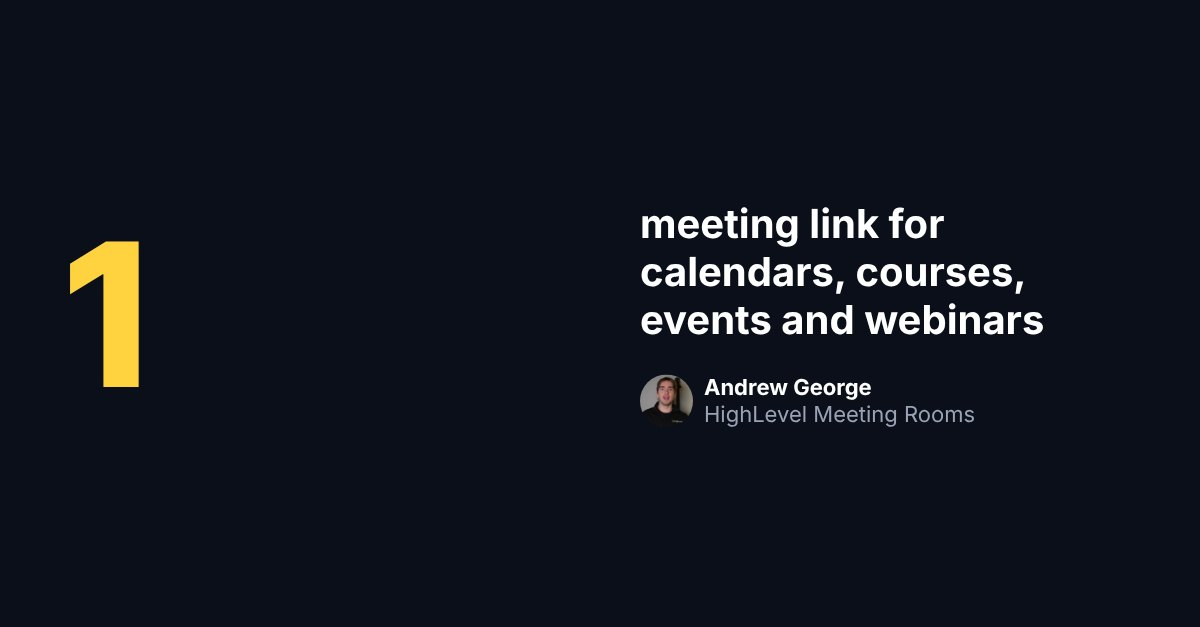
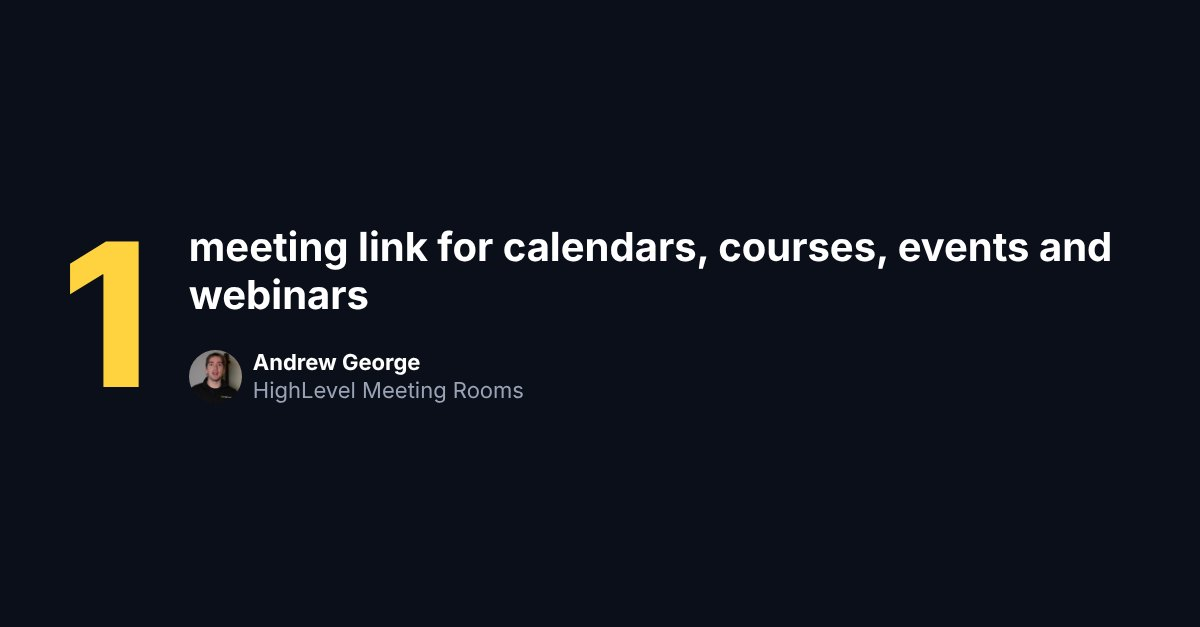
Catalog: webinar, SaaSSuite menu links, podcast roundups, layout fixes
Claude-Session: https://claude.ai/code/session_01RoHYRPTcfUwTmZcKn69drG

diff --git a/tools/catalog_cards.py b/tools/catalog_cards.py
@@ -76,9 +76,9 @@ def slide_html(s, W, H):
         n = s['num']; ns = (300 if len(n) <= 3 else 230 if len(n) <= 5 else 170) if not land else (200 if len(n) <= 3 else 150 if len(n) <= 5 else 115)
         if land:
             return (f"<div class='bg' style='background:{NAVY}'></div>"
-                    f"<div style='position:absolute;left:64px;top:50%;transform:translateY(-50%);width:560px;font:800 {ns}px/0.95 Tight;color:{YEL};letter-spacing:-.03em'>{esc(n)}</div>"
-                    f"<div style='position:absolute;left:640px;right:60px;top:50%;transform:translateY(-50%);color:#fff'>"
-                    f"<div style='font:700 40px/1.2 Inter'>{esc(s['label'])}</div><div style='margin-top:30px'>{byline(s, 22, '#fff', '#9AA3B5')}</div></div>")
+                    f"<div style='position:absolute;left:64px;right:60px;top:50%;transform:translateY(-50%);display:flex;align-items:center;gap:48px;color:#fff'>"
+                    f"<div style='flex:none;max-width:560px;font:800 {ns}px/0.95 Tight;color:{YEL};letter-spacing:-.03em'>{esc(n)}</div>"
+                    f"<div style='min-width:0'><div style='font:700 40px/1.2 Inter'>{esc(s['label'])}</div><div style='margin-top:30px'>{byline(s, 22, '#fff', '#9AA3B5')}</div></div></div>")
         return (f"<div class='bg' style='background:{NAVY}'></div><div style='position:absolute;left:90px;right:90px;top:50%;transform:translateY(-50%);color:#fff'>"
                 f"<div style='font:800 {ns}px/0.95 Tight;color:{YEL};letter-spacing:-.03em'>{esc(n)}</div>"
                 f"<div style='font:700 56px/1.18 Inter;margin-top:40px'>{esc(s['label'])}</div>"

diff --git a/tools/catalog_features.py b/tools/catalog_features.py
@@ -28,6 +28,8 @@ def faces_of(frames):
         if len(fs):
             x, y, w, h = max(fs, key=lambda r: r[2]); sharp = cv2.Laplacian(g[y:y + h, x:x + w], cv2.CV_64F).var()
             out.append((f, dict(x=x + w / 2, y=y + h / 2, face=w), sharp))
+    if out:  # keep full-camera frames only: faces near the biggest size (drops faces inside screen shares, ads, thumbnails)
+        big = max(p['face'] for _, p, _ in out); out = [r for r in out if r[1]['face'] >= 0.7 * big]
     out.sort(key=lambda r: -r[2])  # sharpest face first (cover + cards); blurred mid-gesture frames go last
     return [(f, p) for f, p, _ in out]
 

diff --git a/tools/catalog_assemble.py b/tools/catalog_assemble.py
@@ -67,6 +67,7 @@ def main():
             cap = f"{it['thread'][0]}\n\n{it['thread'][-1]}\n\n{TAGS['pod']}"
             add_car('convo', d / 'convo', cid, it['hook'], src, cap); add_car('thread', d / 'thread', cid, it['hook'], src, cap)
             add_singles(d / 'single', cid, it['hook'], src); add_text(cid, it, src)
+    for it in load('roundups'): add_text(it['id'], it, it['source'])
     # feature releases
     for name in ('feature1', 'feature2', 'feature3', 'feature4'):
         for it in load(name):

diff --git a/outputs/2026-11-07-catalog/README.md b/outputs/2026-11-07-catalog/README.md
@@ -37,7 +37,7 @@ Never used: V3 "kinetic", AI faces, guest words under Andrew's name.
 - All JPGs ≤ 400 KB.
 
 ## Counts
-**94** carousels · **294** single images · **355** texts · **30** story sequences
+**98** carousels · **306** single images · **380** texts · **30** story sequences
 
 ## Every output
 | id | type | format | length | hook | source | file |
@@ -370,6 +370,22 @@ Never used: V3 "kinetic", AI faces, guest words under Andrew's name.
 | ssclienthu-stat-1200x627 | single image | stat card | 1200x627 | Your clients should onboard themselves | SSClientHu.mp4 (Oct 2026 V+S) | `singles/ssclienthu-stat-1200x627.jpg` |
 | ssclienthu-tweet-1080x1350 | single image | tweet card | 1080x1350 | Your clients should onboard themselves | SSClientHu.mp4 (Oct 2026 V+S) | `singles/ssclienthu-tweet-1080x1350.jpg` |
 | ssclienthu-tweet-1200x627 | single image | tweet card | 1200x627 | Your clients should onboard themselves | SSClientHu.mp4 (Oct 2026 V+S) | `singles/ssclienthu-tweet-1200x627.jpg` |
+| ssmenulink-convo | carousel | Hormozi podcast stack (pod1-05 style) | 6 slides | Only show clients what they pay for | SSMenuLink.mp4 (Oct 2026 V+S) | `carousels/ssmenulink-convo/` |
+| ssmenulink-thread | carousel | face cover + tweet thread | 7 slides | Only show clients what they pay for | SSMenuLink.mp4 (Oct 2026 V+S) | `carousels/ssmenulink-thread/` |
+| ssmenulink-quote-1080x1350 | single image | quote card | 1080x1350 | Only show clients what they pay for | SSMenuLink.mp4 (Oct 2026 V+S) | `singles/ssmenulink-quote-1080x1350.jpg` |
+| ssmenulink-quote-1200x627 | single image | quote card | 1200x627 | Only show clients what they pay for | SSMenuLink.mp4 (Oct 2026 V+S) | `singles/ssmenulink-quote-1200x627.jpg` |
+| ssmenulink-stat-1080x1350 | single image | stat card | 1080x1350 | Only show clients what they pay for | SSMenuLink.mp4 (Oct 2026 V+S) | `singles/ssmenulink-stat-1080x1350.jpg` |
+| ssmenulink-stat-1200x627 | single image | stat card | 1200x627 | Only show clients what they pay for | SSMenuLink.mp4 (Oct 2026 V+S) | `singles/ssmenulink-stat-1200x627.jpg` |
+| ssmenulink-tweet-1080x1350 | single image | tweet card | 1080x1350 | Only show clients what they pay for | SSMenuLink.mp4 (Oct 2026 V+S) | `singles/ssmenulink-tweet-1080x1350.jpg` |
+| ssmenulink-tweet-1200x627 | single image | tweet card | 1200x627 | Only show clients what they pay for | SSMenuLink.mp4 (Oct 2026 V+S) | `singles/ssmenulink-tweet-1200x627.jpg` |
+| webinar-convo | carousel | Hormozi podcast stack (pod1-05 style) | 6 slides | I sell almost everything with webinars | WebinarVideo.mp4 (Oct 2026 V+S) | `carousels/webinar-convo/` |
+| webinar-thread | carousel | face cover + tweet thread | 7 slides | I sell almost everything with webinars | WebinarVideo.mp4 (Oct 2026 V+S) | `carousels/webinar-thread/` |
+| webinar-quote-1080x1350 | single image | quote card | 1080x1350 | I sell almost everything with webinars | WebinarVideo.mp4 (Oct 2026 V+S) | `singles/webinar-quote-1080x1350.jpg` |
+| webinar-quote-1200x627 | single image | quote card | 1200x627 | I sell almost everything with webinars | WebinarVideo.mp4 (Oct 2026 V+S) | `singles/webinar-quote-1200x627.jpg` |
+| webinar-stat-1080x1350 | single image | stat card | 1080x1350 | I sell almost everything with webinars | WebinarVideo.mp4 (Oct 2026 V+S) | `singles/webinar-stat-1080x1350.jpg` |
+| webinar-stat-1200x627 | single image | stat card | 1200x627 | I sell almost everything with webinars | WebinarVideo.mp4 (Oct 2026 V+S) | `singles/webinar-stat-1200x627.jpg` |
+| webinar-tweet-1080x1350 | single image | tweet card | 1080x1350 | I sell almost everything with webinars | WebinarVideo.mp4 (Oct 2026 V+S) | `singles/webinar-tweet-1080x1350.jpg` |
+| webinar-tweet-1200x627 | single image | tweet card | 1200x627 | I sell almost everything with webinars | WebinarVideo.mp4 (Oct 2026 V+S) | `singles/webinar-tweet-1200x627.jpg` |
 | nCBnetgFc1s-story | story sequence | 4 frames: hook, why, poll, link sticker | 4 frames | 300+ new HighLevel features dropped at LevelUp | YouTube: GoHighLevel LevelUp 2026: Everything You Need to Know (https://www.youtube.com/watch?v=nCBnetgFc1s) | `stories/nCBnetgFc1s/` |
 | nCBnetgFc1s-post-1080x1350 | single image | post card | 1080x1350 | 300+ new HighLevel features. Here are the ones that matter. | YouTube: GoHighLevel LevelUp 2026: Everything You Need to Know (https://www.youtube.com/watch?v=nCBnetgFc1s) | `singles/nCBnetgFc1s-post-1080x1350.jpg` |
 | nCBnetgFc1s-post-1200x627 | single image | post card | 1200x627 | 300+ new HighLevel features. Here are the ones that matter. | YouTube: GoHighLevel LevelUp 2026: Everything You Need to Know (https://www.youtube.com/watch?v=nCBnetgFc1s) | `singles/nCBnetgFc1s-post-1200x627.jpg` |
@@ -461,4 +477,4 @@ Never used: V3 "kinetic", AI faces, guest words under Andrew's name.
 | 6v9-gl2ap9o-post-1080x1350 | single image | post card | 1080x1350 | Ask AI can do anything in HighLevel. Let me prove it. | YouTube: Ask AI Can Do Anything in GoHighLevel — Let Me Prove It (https://www.youtube.com/watch?v=6v9-gl2ap9o) | `singles/6v9-gl2ap9o-post-1080x1350.jpg` |
 | 6v9-gl2ap9o-post-1200x627 | single image | post card | 1200x627 | Ask AI can do anything in HighLevel. Let me prove it. | YouTube: Ask AI Can Do Anything in GoHighLevel — Let Me Prove It (https://www.youtube.com/watch?v=6v9-gl2ap9o) | `singles/6v9-gl2ap9o-post-1200x627.jpg` |
 
-Text posts (355) are listed in `manifest.csv` and live in `text/`.
+Text posts (380) are listed in `manifest.csv` and live in `text/`.

diff --git a/outputs/2026-11-07-catalog/text/linkedin.md b/outputs/2026-11-07-catalog/text/linkedin.md
@@ -1,4 +1,4 @@
-# LinkedIn posts · Nov 7 catalog · 77 drafts
+# LinkedIn posts · Nov 7 catalog · 82 drafts
 Drafts for Andrew's review. Nothing is posted.
 
 ### pod1-01
@@ -493,6 +493,55 @@ Failure isn't what stops people. Quitting after failure is. And quitting gets ea
 
 Therefore practice discomfort on purpose. It makes the next failure survivable.
 
+### pod1-roundup
+_Source: Pod1 (Andy Griffith, SoloLink), Oct 2026 · whole episode_
+
+I sat down with Andy Griffith, a SaaS-preneur award winner who runs 120 HighLevel SaaS customers at SoloLink.
+
+6 things I wrote down:
+
+1. If you're stuck at 5 to 10 accounts, keep going. Everyone with 120 started there.
+2. Your first customers are your warm market. They forgive mistakes while you learn.
+3. Charge less at first. "Eat a little bit of dirt." You're getting paid to learn.
+4. Sell the offer before you know every step of the backend. You only need to see 200 feet ahead.
+5. You can do anything, not everything. Solo breaks somewhere past 50 clients.
+6. Bet on yourself. Don't fail the bet you made.
+
+The pattern under all six: most people don't fail at SaaS. They stop early. Therefore the real skill is staying in the game long enough for the math to work.
+
+Which one do you need to hear this week?
+
+### pod2-roundup
+_Source: Pod2 (Blake Coker, Task Engine), Oct 2026 · whole episode_
+
+Blake Coker built an agency for midsize banks. Not roofers, not dentists. Banks.
+
+What stood out from our conversation:
+
+1. His niche came from his resume. He'd built software for banks for years.
+2. His first real bank client came from one referral: "go talk to our marketing manager."
+3. He walked into that first meeting with a notepad and kept his mouth shut.
+4. He didn't pitch the whole marketing job. He filled the gap their team couldn't.
+5. Forget speed to lead. Speed to support is what keeps clients.
+6. Offer one thing. Then find your groove.
+
+None of that is a growth hack. But all of it compounds. Therefore if you're starting an agency, start with who already trusts you and what you already know.
+
+### pod3-roundup
+_Source: Pod3 (HighLevel 2026 interns), Oct 2026 · whole episode_
+
+I talked with three of HighLevel's 2026 interns: Ohaji (21, Ohio State, AI consulting), McKinley (started posting on YouTube at 10, agency since high school) and Ty (25, Dallas, left horse training to start an AI agency).
+
+What they said about starting young:
+
+• "I've grown more in two months than in four years of college."
+• Posting cost one of them real friendships. Strangers ended up being the biggest supporters.
+• "Show me your three friends and I'll show you where you're going in life."
+• "It's not easy, but it is simple."
+• "If you're going to fall, fall forward."
+
+The theme: none of them waited to feel ready. They started, felt the discomfort, and kept going. Therefore the advice for anyone younger who's watching: start now, and find a room of people doing the same thing.
+
 ### n8n
 _Source: N8N V+S.mp4 (Nov 2026 V+S)_
 
@@ -608,6 +657,36 @@ A new client logs in, sees 40 tabs and doesn't know where to start. They don't a
 That's why we built the SaaSSuite client hub into the HighLevel account itself. The first thing a client sees is a welcome, a welcome video and an onboarding checklist where every step links to a short how-to video. Custom buttons sit up top: book a call, upgrade, fill out the onboarding form. Education and support tabs are one click away.
 
 Therefore onboarding works the same for client 1 and client 500, and nobody needs a Zoom call to get started.
+
+### ssmenulink
+_Source: SSMenuLink.mp4 (Oct 2026 V+S)_
+
+A pricing problem I see in a lot of HighLevel SaaS businesses: every plan sees the exact same software.
+
+The $97 client and the $497 client log in to the same menu. Therefore the upgrade doesn't feel like getting anything.
+
+SaaSSuite menu link removal lets you pick which HighLevel features to hide, save that as a preset, and tie it to a plan. It can run automatically as clients sign up.
+
+Small plan, small menu. Upgrade, and the new features show up.
+
+That also makes onboarding easier, because a new client only sees what they bought.
+
+### webinar
+_Source: WebinarVideo.mp4 (Oct 2026 V+S)_
+
+I sell almost everything I offer through webinars.
+
+The reason is simple: a 30-second ad can't explain a SaaS offer. But in a webinar someone sees the problem, the product and the offer, and gets their questions answered.
+
+My setup is boring on purpose:
+
+• Ads with a real face (they usually beat text-only creative)
+• A landing page with a call-out, a headline, the objections, and "save my seat"
+• An automated session they can join in 3 minutes or tonight
+
+The shortcut most people miss: paste your sales page into an AI script builder and it drafts the whole webinar, then the slides.
+
+But don't read it word for word. Therefore the AI writes the structure, and you bring the stories.
 
 ### nCBnetgFc1s
 _Source: YouTube: GoHighLevel LevelUp 2026: Everything You Need to Know (https://www.youtube.com/watch?v=nCBnetgFc1s)_

diff --git a/outputs/2026-11-07-catalog/text/threads.md b/outputs/2026-11-07-catalog/text/threads.md
@@ -1,4 +1,4 @@
-# Threads posts · Nov 7 catalog · 171 drafts
+# Threads posts · Nov 7 catalog · 186 drafts
 Drafts for Andrew's review. Nothing is posted.
 
 ### pod1-01-1
@@ -573,6 +573,51 @@ _Source: Pod3 (HighLevel 2026 interns), Oct 2026 · clip pod3-15 (323s, 17s)_
 
 Fail and quit: over. Fail and keep going: eventually it works.
 
+### pod1-roundup-1
+_Source: Pod1 (Andy Griffith, SoloLink), Oct 2026 · whole episode_
+
+Andy Griffith runs 120 HighLevel SaaS customers. His advice for people at 5: keep going, charge less at first, sell before you're ready, and don't quit on the bet you made.
+
+### pod1-roundup-2
+_Source: Pod1 (Andy Griffith, SoloLink), Oct 2026 · whole episode_
+
+"You only need to see 200 feet ahead." Best line from my podcast with Andy Griffith. You don't need the whole map to start the trip.
+
+### pod1-roundup-3
+_Source: Pod1 (Andy Griffith, SoloLink), Oct 2026 · whole episode_
+
+Andy Griffith's walking videos beat his edited ones. Low effort, high output. The algorithm rewards showing up.
+
+### pod2-roundup-1
+_Source: Pod2 (Blake Coker, Task Engine), Oct 2026 · whole episode_
+
+Blake Coker's agency serves midsize banks. How he got the first one: a referral and a notepad. No funnel.
+
+### pod2-roundup-2
+_Source: Pod2 (Blake Coker, Task Engine), Oct 2026 · whole episode_
+
+Everyone optimizes speed to lead. Blake Coker optimizes speed to support. That's why clients stay.
+
+### pod2-roundup-3
+_Source: Pod2 (Blake Coker, Task Engine), Oct 2026 · whole episode_
+
+"Find one thing you can offer someone and don't try to do too much." Blake Coker, Task Engine.
+
+### pod3-roundup-1
+_Source: Pod3 (HighLevel 2026 interns), Oct 2026 · whole episode_
+
+Three HighLevel interns, three different starts: college AI consultant, a YouTuber since age 10, a former horse trainer. Same lesson: start before you're ready.
+
+### pod3-roundup-2
+_Source: Pod3 (HighLevel 2026 interns), Oct 2026 · whole episode_
+
+"It's not easy, but it is simple." The whole internship in one sentence.
+
+### pod3-roundup-3
+_Source: Pod3 (HighLevel 2026 interns), Oct 2026 · whole episode_
+
+Your friends might lurk. Strangers will support you 10 toes down. Post for the strangers.
+
 ### n8n-1
 _Source: N8N V+S.mp4 (Nov 2026 V+S)_
 
@@ -707,6 +752,36 @@ Every onboarding step should link to a 2-minute video. Import contacts? Here's t
 _Source: SSClientHu.mp4 (Oct 2026 V+S)_
 
 If onboarding needs you on a Zoom call, it caps your growth.
+
+### ssmenulink-1
+_Source: SSMenuLink.mp4 (Oct 2026 V+S)_
+
+If every plan sees the same HighLevel menu, nobody has a reason to upgrade. Hide features per plan.
+
+### ssmenulink-2
+_Source: SSMenuLink.mp4 (Oct 2026 V+S)_
+
+Small plan, small menu. Upgrade, the features appear. That's how tiers should feel.
+
+### ssmenulink-3
+_Source: SSMenuLink.mp4 (Oct 2026 V+S)_
+
+Hiding features isn't about less. It's about making the upgrade visible.
+
+### webinar-1
+_Source: WebinarVideo.mp4 (Oct 2026 V+S)_
+
+A 30-second ad can't explain a SaaS offer. A webinar can. That's why it's my main sales channel.
+
+### webinar-2
+_Source: WebinarVideo.mp4 (Oct 2026 V+S)_
+
+Paste your sales page into an AI webinar script builder. It writes promise, pain points, objections, offer and close. Then slides. Then you present it like a human.
+
+### webinar-3
+_Source: WebinarVideo.mp4 (Oct 2026 V+S)_
+
+Ads with a real face usually beat text-only creative. Put yourself in the ad.
 
 ### nCBnetgFc1s-1
 _Source: YouTube: GoHighLevel LevelUp 2026: Everything You Need to Know (https://www.youtube.com/watch?v=nCBnetgFc1s)_

diff --git a/outputs/2026-11-07-catalog/text/x.md b/outputs/2026-11-07-catalog/text/x.md
@@ -1,4 +1,4 @@
-# X posts · Nov 7 catalog · 77 drafts
+# X posts · Nov 7 catalog · 82 drafts
 Drafts for Andrew's review. Nothing is posted.
 
 ### pod1-01
@@ -355,6 +355,38 @@ Quit 0 times.
 
 That's the whole difference.
 
+### pod1-roundup
+_Source: Pod1 (Andy Griffith, SoloLink), Oct 2026 · whole episode_
+
+6 lessons from a 120-customer HighLevel SaaS founder:
+
+1. Stuck at 5? Keep going
+2. Start with your warm market
+3. Charge less at first
+4. Sell before you're ready
+5. You can't do everything
+6. Don't fail the bet you made
+
+### pod2-roundup
+_Source: Pod2 (Blake Coker, Task Engine), Oct 2026 · whole episode_
+
+How Blake Coker landed banks as agency clients:
+
+• Niche = his old industry
+• First client = one referral
+• First meeting = a notepad, no pitch
+• Offer = fill the gap, not the whole job
+
+### pod3-roundup
+_Source: Pod3 (HighLevel 2026 interns), Oct 2026 · whole episode_
+
+3 HighLevel interns on starting young:
+
+"2 months > 4 years of college."
+"Show me your 3 friends..."
+"Not easy, but simple."
+"Fall forward."
+
 ### n8n
 _Source: N8N V+S.mp4 (Nov 2026 V+S)_
 
@@ -449,6 +481,28 @@ SaaS onboarding that scales:
 • Buttons: book a call, upgrade
 
 Same for client 1 and client 500.
+
+### ssmenulink
+_Source: SSMenuLink.mp4 (Oct 2026 V+S)_
+
+HighLevel SaaS pricing tip:
+
+Don't show every plan the same menu.
+
+Small plan → small menu.
+Upgrade → features appear.
+
+### webinar
+_Source: WebinarVideo.mp4 (Oct 2026 V+S)_
+
+How I sell my SaaS:
+
+1. Ad with my face
+2. Landing page: call-out, headline, objections, save my seat
+3. Automated webinar
+4. Offer at the end
+
+Boring. Works.
 
 ### nCBnetgFc1s
 _Source: YouTube: GoHighLevel LevelUp 2026: Everything You Need to Know (https://www.youtube.com/watch?v=nCBnetgFc1s)_

diff --git a/outputs/2026-11-07-catalog/text/carousel-captions.md b/outputs/2026-11-07-catalog/text/carousel-captions.md
@@ -1,4 +1,4 @@
-# Carousel captions (IG / FB / LinkedIn) · Nov 7 catalog · 94 drafts
+# Carousel captions (IG / FB / LinkedIn) · Nov 7 catalog · 98 drafts
 Drafts for Andrew's review. Nothing is posted.
 
 ### pod1-01-convo
@@ -656,5 +656,33 @@ Comment SUITE and I'll show you ours.
 Most SaaS churn starts in week one, when a new client logs in and doesn't know what to do first.
 
 Comment SUITE and I'll show you ours.
+
+#gohighlevel #highlevel #saas
+
+### ssmenulink-convo
+If a $97 client sees the same menu as a $497 client, why would anyone upgrade?
+
+Comment SUITE and I'll send the presets we use per plan.
+
+#gohighlevel #highlevel #saas
+
+### ssmenulink-thread
+If a $97 client sees the same menu as a $497 client, why would anyone upgrade?
+
+Comment SUITE and I'll send the presets we use per plan.
+
+#gohighlevel #highlevel #saas
+
+### webinar-convo
+A 30-second ad can't explain a SaaS offer. A webinar can.
+
+Comment WEBINAR and I'll send you my landing page layout.
+
+#gohighlevel #highlevel #saas
+
+### webinar-thread
+A 30-second ad can't explain a SaaS offer. A webinar can.
+
+Comment WEBINAR and I'll send you my landing page layout.
 
 #gohighlevel #highlevel #saas
